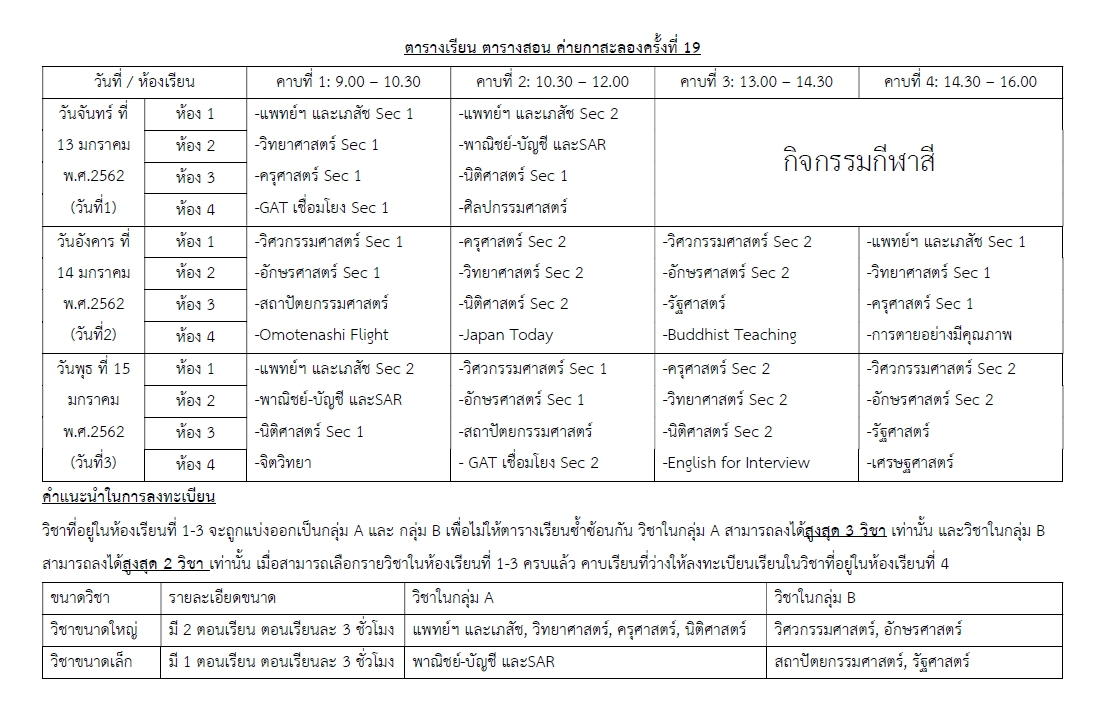
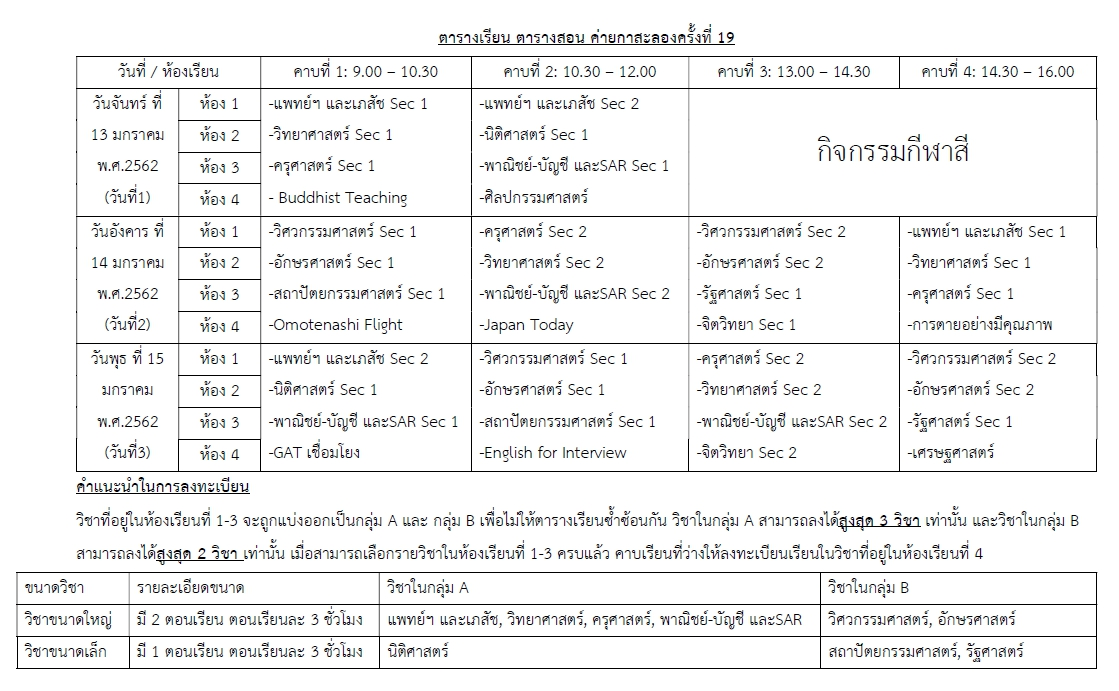
auto hidden button

Changed region(s): [[0.0, 0.0304, 0.9793, 0.9725], [0.7039, 0.1823, 0.8875, 0.2431]]

diff --git a/register/subject19th.js b/register/subject19th.js
@@ -2,82 +2,82 @@
 module.exports = [
   { subId: "00KSL11", subjectName: "MED  : วิทยาศาสตร์สุขภาพ", subjectPassword: "123456",
     secList: {
-      1: { capacity: 27, current: 0, subjectTime: 33, subjectTimeMap: "1_32", room: "1" },
-      2: { capacity: 27, current: 0, subjectTime: 66, subjectTimeMap: "2_64", room: "1" }
+      1: { capacity: 18, current: 0, subjectTime: 33, subjectTimeMap: "1_32", room: "1" },
+      2: { capacity: 18, current: 0, subjectTime: 66, subjectTimeMap: "2_64", room: "1" }
     }
   },{ subId: "01KSL12", subjectName: "POL  : รัฐศาสตร์", subjectPassword: "123456",
     secList: {
-      1: { capacity: 27, current: 0, subjectTime: 528, subjectTimeMap: "16_512", room: "3" }
+      1: { capacity: 18, current: 0, subjectTime: 528, subjectTimeMap: "16_512", room: "3" }
     }
   },{ subId: "02KSL13", subjectName: "SCI  : วิทยาศาสตร์", subjectPassword: "123456",
     secList: {
-      1: { capacity: 27, current: 0, subjectTime: 33, subjectTimeMap: "1_32", room: "2" },
-      2: { capacity: 27, current: 0, subjectTime: 264, subjectTimeMap: "8_256", room: "2" }
+      1: { capacity: 18, current: 0, subjectTime: 33, subjectTimeMap: "1_32", room: "2" },
+      2: { capacity: 18, current: 0, subjectTime: 264, subjectTimeMap: "8_256", room: "2" }
     }
   },{ subId: "03KSL14", subjectName: "EDU  : ครุศาสตร์", subjectPassword: "123456",
     secList: {
-      1: { capacity: 27, current: 0, subjectTime: 33, subjectTimeMap: "1_32", room: "3" },
-      2: { capacity: 27, current: 0, subjectTime: 264, subjectTimeMap: "8_256", room: "1" }
+      1: { capacity: 18, current: 0, subjectTime: 33, subjectTimeMap: "1_32", room: "3" },
+      2: { capacity: 18, current: 0, subjectTime: 264, subjectTimeMap: "8_256", room: "1" }
     }
   },{ subId: "04KSL15", subjectName: "LAW  : นิติศาสตร์", subjectPassword: "123456",
     secList: {
-      1: { capacity: 27, current: 0, subjectTime: 66, subjectTimeMap: "2_64", room: "3" },
-      2: { capacity: 27, current: 0, subjectTime: 264, subjectTimeMap: "8_256", room: "3" }
+      1: { capacity: 18, current: 0, subjectTime: 66, subjectTimeMap: "2_64", room: "2" }
     }
   },{ subId: "05KSL21", subjectName: "ARTS : อักษรศาสตร์", subjectPassword: "123456",
     secList: {
-      1: { capacity: 27, current: 0, subjectTime: 132, subjectTimeMap: "4_128", room: "2" },
-      2: { capacity: 27, current: 0, subjectTime: 528, subjectTimeMap: "16_512", room: "2" }
+      1: { capacity: 18, current: 0, subjectTime: 132, subjectTimeMap: "4_128", room: "2" },
+      2: { capacity: 18, current: 0, subjectTime: 528, subjectTimeMap: "16_512", room: "2" }
     }
   },{ subId: "06KSL22", subjectName: "ARCH : สถาปัตยกรรมศาสตร์", subjectPassword: "123456",
     secList: {
-      1: { capacity: 27, current: 0, subjectTime: 132, subjectTimeMap: "4_128", room: "3" }
+      1: { capacity: 18, current: 0, subjectTime: 132, subjectTimeMap: "4_128", room: "3" }
     }
   },{ subId: "07KSL23", subjectName: "ENG  : วิศวกรรมศาสตร์", subjectPassword: "123456",
     secList: {
-      1: { capacity: 27, current: 0, subjectTime: 132, subjectTimeMap: "4_128", room: "1" },
-      2: { capacity: 27, current: 0, subjectTime: 528, subjectTimeMap: "16_512", room: "1" }
+      1: { capacity: 18, current: 0, subjectTime: 132, subjectTimeMap: "4_128", room: "1" },
+      2: { capacity: 18, current: 0, subjectTime: 528, subjectTimeMap: "16_512", room: "1" }
     }
-  },{ subId: "08KSL24", subjectName: "SHI  : พาณิชยศาสตร์และการบัญชี / สำนักวิชาทรัพยากรการเกษตร", subjectPassword: "123456",
+  },{ subId: "08KSL24", subjectName: "SHI & SAR  : พาณิชยศาสตร์และการบัญชี / สำนักวิชาทรัพยากรการเกษตร", subjectPassword: "123456",
     secList: {
-      1: { capacity: 27, current: 0, subjectTime: 66, subjectTimeMap: "2_64", room: "2" }
+      1: { capacity: 18, current: 0, subjectTime: 66, subjectTimeMap: "2_64", room: "3" },
+      2: { capacity: 18, current: 0, subjectTime: 264, subjectTimeMap: "8_256", room: "3" }
     }
   },{ subId: "09KSL31", subjectName: "ECON : เศรษฐศาสตร์", subjectPassword: "123456",
     secList: {
-      1: { capacity: 31, current: 0, subjectTime: 512, subjectTimeMap: "512", room: "4" }
+      1: { capacity: 20, current: 0, subjectTime: 512, subjectTimeMap: "512", room: "4" }
     }
   },{ subId: "10KSL32", subjectName: "PSY  : จิตวิทยา", subjectPassword: "123456",
     secList: {
-      1: { capacity: 31, current: 0, subjectTime: 64, subjectTimeMap: "64", room: "4" }
+      1: { capacity: 20, current: 0, subjectTime: 16, subjectTimeMap: "16", room: "4" },
+      2: { capacity: 20, current: 0, subjectTime: 256, subjectTimeMap: "256", room: "4" }
     }
   },{ subId: "11KSL33", subjectName: "FAA  : ศิลปกรรมศาสตร์", subjectPassword: "123456",
     secList: {
-      1: { capacity: 31, current: 0, subjectTime: 2, subjectTimeMap: "2", room: "4" }
+      1: { capacity: 20, current: 0, subjectTime: 2, subjectTimeMap: "2", room: "4" }
     }
   },{ subId: "12KSL34", subjectName: "GAT-T: GAT เชื่อมโยง", subjectPassword: "123456",
     secList: {
-      1: { capacity: 31, current: 0, subjectTime: 1, subjectTimeMap: "1", room: "4" },
-      2: { capacity: 31, current: 0, subjectTime: 256, subjectTimeMap: "128", room: "4" }
+      1: { capacity: 20, current: 0, subjectTime: 64, subjectTimeMap: "64", room: "4" }
     }
   },{ subId: "13KSL35", subjectName: "DEATH: การตายอย่างมีคุณภาพ", subjectPassword: "123456",
     secList: {
-      1: { capacity: 31, current: 0, subjectTime: 32, subjectTimeMap: "32", room: "4" }
+      1: { capacity: 20, current: 0, subjectTime: 32, subjectTimeMap: "32", room: "4" }
     }
   },{ subId: "14KSL36", subjectName: "BUD  : Buddist Teaching", subjectPassword: "123456", //prob1
     secList: {
-      1: { capacity: 31, current: 0, subjectTime: 16, subjectTimeMap: "16", room: "4" }
+      1: { capacity: 20, current: 0, subjectTime: 1, subjectTimeMap: "1", room: "4" }
     }
   },{ subId: "15KSL37", subjectName: "FIGHT: Omotenashi flight", subjectPassword: "123456", //prob2
     secList: {
-      1: { capacity: 31, current: 0, subjectTime: 4, subjectTimeMap: "4", room: "4" }
+      1: { capacity: 20, current: 0, subjectTime: 4, subjectTimeMap: "4", room: "4" }
     }
   },{ subId: "16KSL38", subjectName: "JAPAN: Japan Today", subjectPassword: "123456",
     secList: {
-      1: { capacity: 31, current: 0, subjectTime: 8, subjectTimeMap: "8", room: "4" }
+      1: { capacity: 20, current: 0, subjectTime: 8, subjectTimeMap: "8", room: "4" }
     }
   },{ subId: "17KSL39", subjectName: "English for Interview: ภาษาสำหรับการสอบสัมภาษณ์ (สอนโดย โอ๊คบัญชี พี่กลุ่ม)" , subjectPassword: "123456",
     secList: {
-      1: { capacity: 31, current: 0, subjectTime: 64, subjectTimeMap: "256", room: "4" }
+      1: { capacity: 20, current: 0, subjectTime: 128, subjectTimeMap: "128", room: "4" }
     }
 
     }

diff --git a/register/read2.js b/register/read2.js
@@ -72,18 +72,20 @@ sheet_name_list.forEach(function(y) {
         genUsername = makeUsername(2) + index + makeUsername(1)
       }
       valueArray[7] = valueArray[7].replace("-", "")
+      if (valueArray[7].length < 10) {
+        valueArray[7] = '1234567890'
+      }
 
       valueUse = [valueArray[1], valueArray[2], valueArray[3], valueArray[7], valueArray[5], valueArray[6], genUsername]
-
-      //addUserToFirebase(index, genUsername+"@camp.com", valueArray[2], valueArray[7])
-      /*
+      addUserToFirebase(index, genUsername+"@camp.com", valueArray[2], valueArray[7])
+      
       st.addRow(valueUse); // add the array as a row in sheet
-      */
+      
     });
-/*
+
     wb.xlsx.writeFile('./out.xlsx').then(function() {
         console.log('file is written');
-    });*/
+    });
   });
 
 function addUserToFirebase(index, email, username, password) {

diff --git a/src/components/parts/RegisteredCard.js b/src/components/parts/RegisteredCard.js
@@ -1,4 +1,5 @@
 import React from "react";
+import showButton from "../showButton"
 
 export default ({ subject, onDelete }) => (
   <div className="card bg-light mb-2">
@@ -14,9 +15,11 @@ export default ({ subject, onDelete }) => (
         <button
           onClick={() => onDelete(subject.subjectId, subject.sec)}
           className="btn btn-danger float-right"
+          hidden= {showButton}
         >
           Remove
         </button>
+        {showButton}
       </h6>
 
       <div className="card-text">

diff --git a/src/components/showButton.js b/src/components/showButton.js
@@ -1,0 +1,9 @@
+var d = new Date();
+console.log(d.getDate())
+if (d.getDate() == 12){
+    var showButton = false
+} else {
+    var showButton = true
+}
+
+export default showButton
